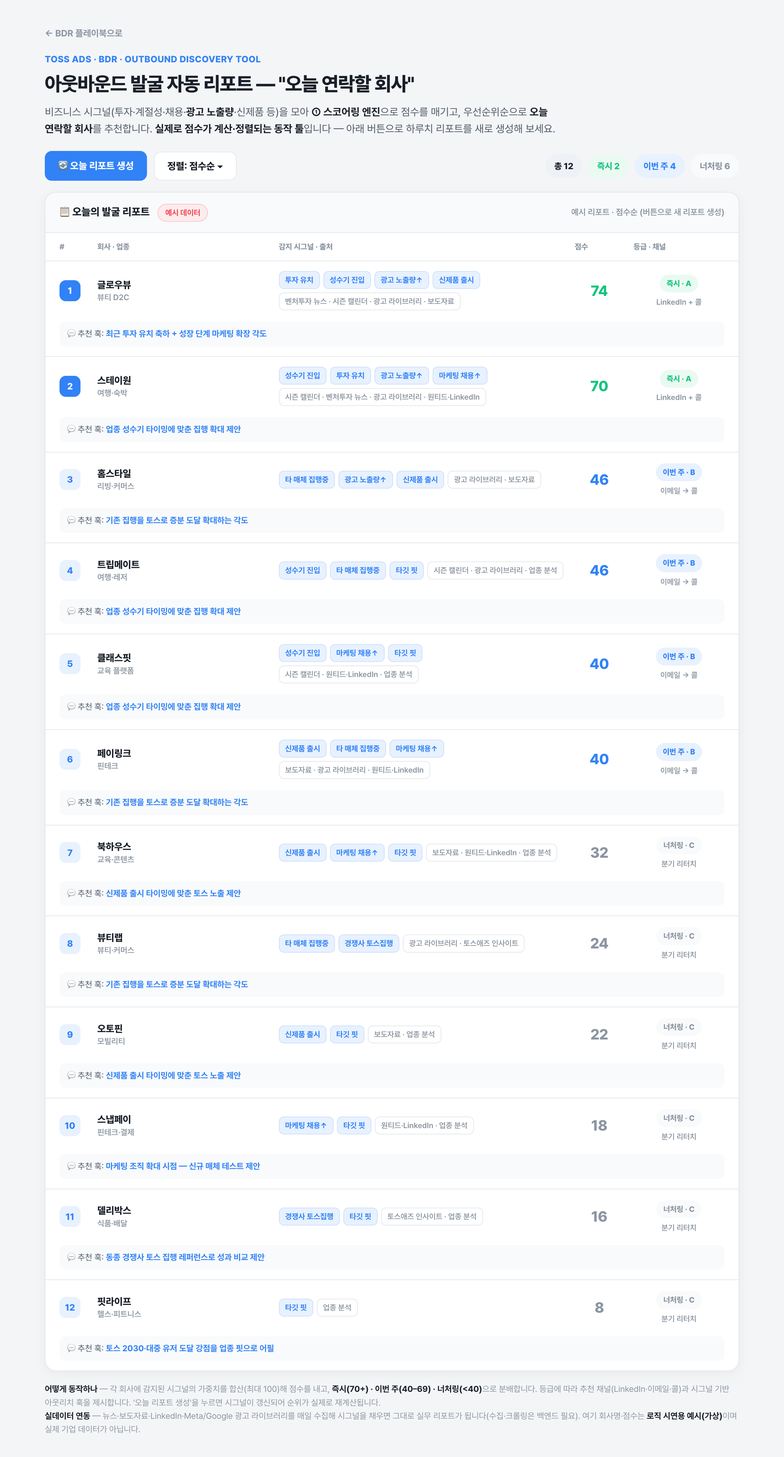
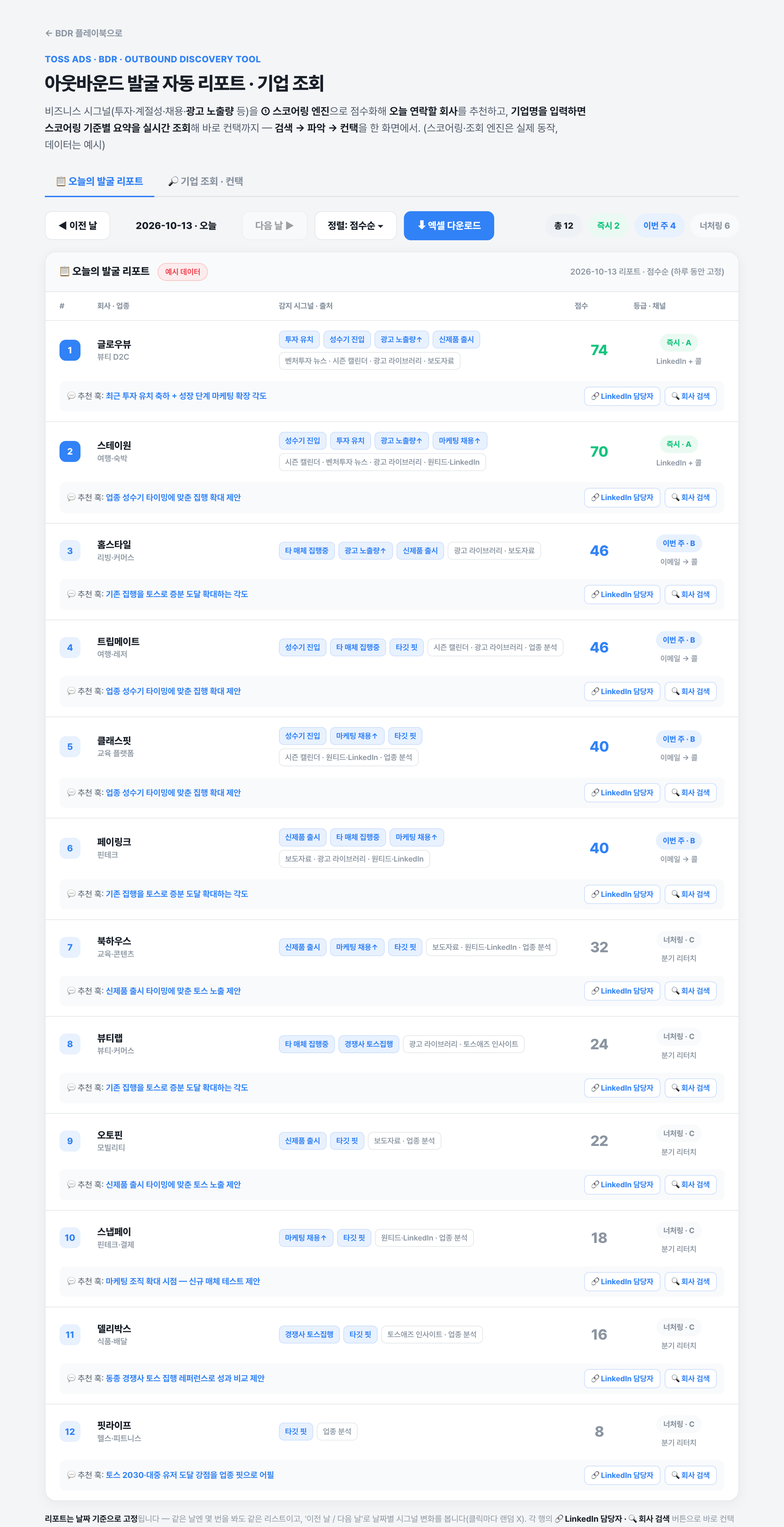
feat(tossbdr): 발굴 툴 날짜-결정론화 + 행별 컨택 버튼 + 엑셀 다운로드 + 기업 조회 탭
- 리포트를 날짜 기준 결정론으로 (같은 날 동일, 클릭마다 랜덤 X) + 이전/다음 날 이동
- 행마다 LinkedIn 담당자·웹 검색 컨택 버튼, CSV(엑셀) 다운로드(컨택 링크 포함)
- '기업 조회·컨택' 탭 신설: 기업명 입력 → 스코어링 8기준별 감지·가중치·출처 요약 → LinkedIn·웹·콜드메일 바로 컨택
- ④ 섹션에 두 탭 실물 캡처 2종 + 버튼 삽입

diff --git a/tossbdr/discovery.html b/tossbdr/discovery.html
@@ -3,8 +3,8 @@
 <head>
 <meta charset="UTF-8" />
 <meta name="viewport" content="width=device-width, initial-scale=1.0" />
-<title>아웃바운드 발굴 자동 리포트 — 오늘 연락할 회사 · 윤지욱</title>
-<meta name="description" content="비즈니스 시그널(투자·계절성·채용·광고 노출량)을 스코어링해 '오늘 연락할 회사'를 우선순위로 추천하는 실제 동작 툴. 토스 Ads BDR 지원 · 윤지욱." />
+<title>아웃바운드 발굴 자동 리포트 · 기업 조회 — 윤지욱</title>
+<meta name="description" content="비즈니스 시그널(투자·계절성·채용·광고 노출량)을 스코어링해 '오늘 연락할 회사'를 추천하고, 기업명으로 실시간 조회·컨택까지 하는 실제 동작 툴. 토스 Ads BDR 지원 · 윤지욱." />
 <style>
   @import url('https://cdn.jsdelivr.net/gh/orioncactus/pretendard@latest/dist/web/static/pretendard.css');
   :root{--blue:#3182F6;--blue-weak:#E8F1FE;--ink:#191F28;--body:#4E5968;--muted:#8B95A1;--line:#E5E8EB;--bg-soft:#F9FAFB;--green:#15C47E;--red:#F04452;}
@@ -14,14 +14,20 @@
   .back{display:inline-block;font-size:13px;font-weight:700;color:var(--muted);text-decoration:none;margin-bottom:16px;}
   .back:hover{color:var(--blue);}
   .eyebrow{font-size:13px;font-weight:800;color:var(--blue);letter-spacing:.02em;margin-bottom:8px;}
-  h1{font-size:28px;font-weight:800;letter-spacing:-.03em;line-height:1.25;margin-bottom:10px;}
-  .lead{font-size:15px;color:var(--body);max-width:760px;margin-bottom:20px;}
+  h1{font-size:27px;font-weight:800;letter-spacing:-.03em;line-height:1.25;margin-bottom:10px;}
+  .lead{font-size:15px;color:var(--body);max-width:780px;margin-bottom:20px;}
   .lead b{color:var(--ink);}
-  .bar{display:flex;align-items:center;gap:10px;flex-wrap:wrap;margin-bottom:16px;}
+  /* 탭 */
+  .tabs{display:flex;gap:4px;border-bottom:2px solid var(--line);margin-bottom:20px;}
+  .tab{font-family:inherit;font-size:14.5px;font-weight:800;color:var(--muted);background:none;border:0;border-bottom:2px solid transparent;margin-bottom:-2px;padding:11px 16px;cursor:pointer;}
+  .tab.active{color:var(--blue);border-bottom-color:var(--blue);}
   .btn{font-family:inherit;font-size:14px;font-weight:800;border-radius:10px;padding:11px 18px;cursor:pointer;border:1px solid var(--blue);background:var(--blue);color:#fff;transition:.15s;}
   .btn:hover{background:#1b64da;border-color:#1b64da;}
   .btn.ghost{background:#fff;color:var(--ink);border-color:var(--line);}
   .btn.ghost:hover{border-color:var(--blue);color:var(--blue);}
+  .btn:disabled{opacity:.4;cursor:not-allowed;}
+  .bar{display:flex;align-items:center;gap:10px;flex-wrap:wrap;margin-bottom:16px;}
+  .dlabel{font-weight:800;font-size:14px;color:var(--ink);min-width:168px;text-align:center;}
   .stat{display:flex;gap:8px;flex-wrap:wrap;margin-left:auto;}
   .stat span{font-size:12.5px;font-weight:800;border-radius:999px;padding:7px 13px;}
   .stat .s-a{color:var(--green);background:#eafaf2;} .stat .s-b{color:var(--blue);background:var(--blue-weak);} .stat .s-c{color:var(--muted);background:var(--bg-soft);} .stat .s-t{color:var(--ink);background:#eef1f5;}
@@ -30,7 +36,7 @@
   .rhd .rt{font-size:15px;font-weight:800;color:var(--ink);}
   .rhd .rd{font-size:12px;color:var(--muted);font-weight:600;}
   .rhead,.rrow{display:grid;grid-template-columns:40px 1.2fr 2fr 70px 130px;gap:14px;align-items:center;padding:14px 20px;border-bottom:1px solid var(--line);}
-  .rhead{padding:11px 20px;background:#fff;font-size:11px;font-weight:800;color:var(--muted);text-transform:none;}
+  .rhead{padding:11px 20px;background:#fff;font-size:11px;font-weight:800;color:var(--muted);}
   .rrow:last-child{border-bottom:0;}
   .rrow:hover{background:#fbfdff;}
   .rk{width:30px;height:30px;border-radius:9px;background:var(--blue-weak);color:var(--blue);font-weight:800;font-size:13px;display:flex;align-items:center;justify-content:center;}
@@ -45,11 +51,45 @@
   .rgr{display:inline-block;font-size:11px;font-weight:800;border-radius:999px;padding:4px 10px;}
   .rgr.a{color:var(--green);background:#eafaf2;} .rgr.b{color:var(--blue);background:var(--blue-weak);} .rgr.c{color:var(--muted);background:var(--bg-soft);}
   .rch{display:block;font-size:11px;color:var(--muted);font-weight:600;margin-top:5px;}
-  .hookrow{grid-column:1 / -1;font-size:12px;color:var(--body);background:var(--bg-soft);border-radius:8px;padding:8px 11px;margin-top:2px;}
+  .hookrow{grid-column:1 / -1;display:flex;align-items:center;flex-wrap:wrap;gap:6px 10px;font-size:12px;color:var(--body);background:var(--bg-soft);border-radius:8px;padding:8px 11px;margin-top:2px;}
   .hookrow b{color:var(--blue);}
+  .cbtns{display:inline-flex;gap:6px;flex-wrap:wrap;margin-left:auto;}
+  .cbtn{font-size:11px;font-weight:700;color:var(--blue);background:#fff;border:1px solid #cfe0fd;border-radius:7px;padding:4px 9px;text-decoration:none;white-space:nowrap;}
+  .cbtn:hover{background:var(--blue);color:#fff;border-color:var(--blue);}
+  /* 기업 조회 */
+  .search{display:flex;gap:10px;flex-wrap:wrap;margin-bottom:12px;}
+  .search input{flex:1;min-width:240px;padding:14px 16px;border:1px solid var(--line);border-radius:12px;font-size:15px;font-family:inherit;color:var(--ink);}
+  .search input:focus{outline:none;border-color:var(--blue);}
+  .chips{display:flex;flex-wrap:wrap;gap:7px;margin-bottom:18px;}
+  .chips button{font-family:inherit;border:1px solid var(--line);background:#fff;color:var(--body);font-size:12.5px;font-weight:700;padding:6px 12px;border-radius:999px;cursor:pointer;}
+  .chips button:hover{border-color:var(--blue);color:var(--blue);}
+  .brief{border:1px solid var(--line);border-radius:16px;overflow:hidden;background:#fff;box-shadow:0 4px 18px rgba(0,0,0,.05);}
+  .bh{display:flex;justify-content:space-between;align-items:center;gap:14px;padding:20px 22px;border-bottom:1px solid var(--line);flex-wrap:wrap;background:var(--bg-soft);}
+  .bname{font-size:22px;font-weight:800;color:var(--ink);} .bname small{font-size:13px;font-weight:600;color:var(--muted);margin-left:8px;}
+  .bscore{text-align:right;display:flex;align-items:baseline;gap:10px;}
+  .bscore .n{font-size:38px;font-weight:800;letter-spacing:-.03em;line-height:1;}
+  .bscore .gr{font-size:12px;font-weight:800;border-radius:999px;padding:5px 11px;}
+  .gr.a{color:var(--green);background:#eafaf2;} .gr.b{color:var(--blue);background:var(--blue-weak);} .gr.c{color:var(--muted);background:#eef1f5;}
+  .bbody{padding:20px 22px;}
+  .bsec{font-size:12px;font-weight:800;color:var(--muted);margin:4px 0 9px;}
+  .btable{width:100%;border-collapse:collapse;font-size:13px;margin-bottom:18px;}
+  .btable th,.btable td{border:1px solid var(--line);padding:9px 12px;text-align:left;vertical-align:middle;}
+  .btable th{background:var(--bg-soft);font-weight:700;color:var(--muted);font-size:11.5px;}
+  .btable td.w{width:64px;text-align:center;font-weight:800;color:var(--ink);}
+  .btable td.d{width:70px;text-align:center;font-weight:800;}
+  .btable tr.on td.d{color:var(--blue);} .btable tr.off td.d{color:var(--muted);}
+  .btable tr.on td{background:#f5f9ff;}
+  .brec{background:var(--blue-weak);border:1px solid #cfe0fd;border-radius:12px;padding:15px 17px;font-size:13.5px;color:var(--ink);line-height:1.65;margin-bottom:16px;}
+  .brec b{color:var(--blue);}
+  .bcontact{display:flex;gap:8px;flex-wrap:wrap;}
+  .bcontact a{font-size:13px;font-weight:800;text-decoration:none;border-radius:11px;padding:11px 17px;border:1px solid var(--line);color:var(--ink);background:#fff;}
+  .bcontact a.li{background:var(--blue);color:#fff;border-color:var(--blue);} .bcontact a.li:hover{background:#1b64da;}
+  .bcontact a:hover{border-color:var(--blue);color:var(--blue);}
+  .bcontact a.li:hover{color:#fff;}
+  .empty{border:1px dashed var(--line);border-radius:14px;padding:34px;text-align:center;color:var(--muted);font-size:14px;}
   .note{font-size:12px;color:var(--muted);line-height:1.6;margin-top:16px;}
   .note b{color:var(--ink);}
-  .tag{display:inline-block;font-size:11px;font-weight:700;color:var(--red);background:#fdeceD;border:1px solid #f7c6c6;border-radius:999px;padding:3px 10px;margin-left:8px;vertical-align:middle;}
+  .tag{display:inline-block;font-size:11px;font-weight:700;color:var(--red);background:#fdeced;border:1px solid #f7c6c6;border-radius:999px;padding:3px 10px;margin-left:8px;vertical-align:middle;}
   @media(max-width:760px){
     .rhead{display:none;}
     .rrow{grid-template-columns:34px 1fr;gap:7px 12px;}
@@ -61,28 +101,51 @@
 <div class="wrap">
   <a class="back" href="bdr.html">← BDR 플레이북으로</a>
   <div class="eyebrow">TOSS ADS · BDR · OUTBOUND DISCOVERY TOOL</div>
-  <h1>아웃바운드 발굴 자동 리포트 — "오늘 연락할 회사"</h1>
-  <p class="lead">비즈니스 시그널(투자·계절성·채용·<b>광고 노출량</b>·신제품 등)을 모아 <b>① 스코어링 엔진</b>으로 점수를 매기고, 우선순위순으로 <b>오늘 연락할 회사</b>를 추천합니다. <b>실제로 점수가 계산·정렬되는 동작 툴</b>입니다 — 아래 버튼으로 하루치 리포트를 새로 생성해 보세요.</p>
+  <h1>아웃바운드 발굴 자동 리포트 · 기업 조회</h1>
+  <p class="lead">비즈니스 시그널(투자·계절성·채용·<b>광고 노출량</b> 등)을 <b>① 스코어링 엔진</b>으로 점수화해 <b>오늘 연락할 회사</b>를 추천하고, <b>기업명을 입력하면 스코어링 기준별 요약을 실시간 조회</b>해 바로 컨택까지 — <b>검색 → 파악 → 컨택</b>을 한 화면에서. (스코어링·조회 엔진은 실제 동작, 데이터는 예시)</p>
 
-  <div class="bar">
-    <button class="btn" id="genBtn">🔄 오늘 리포트 생성</button>
-    <button class="btn ghost" id="sortBtn">정렬: 점수순 ▾</button>
-    <div class="stat" id="stat"></div>
+  <div class="tabs">
+    <button class="tab active" data-tab="report">📋 오늘의 발굴 리포트</button>
+    <button class="tab" data-tab="lookup">🔎 기업 조회 · 컨택</button>
   </div>
 
-  <div class="report">
-    <div class="rhd">
-      <div class="rt">📋 오늘의 발굴 리포트 <span class="tag">예시 데이터</span></div>
-      <div class="rd" id="genTime">—</div>
+  <!-- 탭 1: 오늘의 발굴 리포트 -->
+  <div class="panel" id="panel-report">
+    <div class="bar">
+      <button class="btn ghost" id="prevBtn">◀ 이전 날</button>
+      <div class="dlabel" id="dateLabel">—</div>
+      <button class="btn ghost" id="nextBtn">다음 날 ▶</button>
+      <button class="btn ghost" id="sortBtn">정렬: 점수순 ▾</button>
+      <button class="btn" id="dlBtn">⬇ 엑셀 다운로드</button>
+      <div class="stat" id="stat"></div>
     </div>
-    <div class="rhead"><div>#</div><div>회사 · 업종</div><div>감지 시그널 · 출처</div><div>점수</div><div>등급 · 채널</div></div>
-    <div id="rows"></div>
+    <div class="report">
+      <div class="rhd">
+        <div class="rt">📋 오늘의 발굴 리포트 <span class="tag">예시 데이터</span></div>
+        <div class="rd" id="genTime">—</div>
+      </div>
+      <div class="rhead"><div>#</div><div>회사 · 업종</div><div>감지 시그널 · 출처</div><div>점수</div><div>등급 · 채널</div></div>
+      <div id="rows"></div>
+    </div>
+    <p class="note">
+      <b>리포트는 날짜 기준으로 고정</b>됩니다 — 같은 날엔 몇 번을 봐도 같은 리스트이고, '이전 날 / 다음 날'로 날짜별 시그널 변화를 봅니다(클릭마다 랜덤 X). 각 행의 <b>🔗 LinkedIn 담당자 · 🔍 회사 검색</b> 버튼으로 바로 컨택 포인트를 찾고, <b>⬇ 엑셀 다운로드</b>로 컨택 링크까지 포함한 당일 리스트를 내려받습니다.<br>
+      <b>실데이터 연동</b> — 뉴스·보도자료·LinkedIn·Meta/Google 광고 라이브러리를 매일 수집해 시그널을 채우면 그대로 실무 리포트가 됩니다(수집은 백엔드 필요). 회사명·점수는 로직 시연용 <b>예시(가상)</b>이며, 컨택 버튼은 회사명 기반 실시간 검색으로 연결됩니다.
+    </p>
   </div>
 
-  <p class="note">
-    <b>어떻게 동작하나</b> — 각 회사에 감지된 시그널의 가중치를 합산(최대 100)해 점수를 내고, <b>즉시(70+) · 이번 주(40–69) · 너처링(&lt;40)</b>으로 분배합니다. 등급에 따라 추천 채널(LinkedIn·이메일·콜)과 시그널 기반 아웃리치 훅을 제시합니다. '오늘 리포트 생성'을 누르면 시그널이 갱신되어 순위가 실제로 재계산됩니다.<br>
-    <b>실데이터 연동</b> — 뉴스·보도자료·LinkedIn·Meta/Google 광고 라이브러리를 매일 수집해 시그널을 채우면 그대로 실무 리포트가 됩니다(수집·크롤링은 백엔드 필요). 여기 회사명·점수는 <b>로직 시연용 예시(가상)</b>이며 실제 기업 데이터가 아닙니다.
-  </p>
+  <!-- 탭 2: 기업 조회 · 컨택 -->
+  <div class="panel" id="panel-lookup" style="display:none;">
+    <div class="search">
+      <input id="lookupInput" placeholder="연락할 기업명을 입력하세요 (예: 글로우뷰, 또는 아무 회사명)" autocomplete="off" />
+      <button class="btn" id="lookupBtn">조회</button>
+    </div>
+    <div class="chips" id="lookupChips"></div>
+    <div id="briefResult"></div>
+    <p class="note">
+      <b>어떻게 쓰나</b> — 연락하려는 기업명을 입력하면 <b>스코어링 8개 기준별로 감지 여부·가중치·출처를 요약</b>해 점수·등급·추천 채널·아웃리치 훅을 한눈에 보여줍니다. 내용을 익힌 뒤 바로 <b>LinkedIn 담당자 검색 · 회사 검색 · 콜드메일 초안</b>으로 컨택하세요.<br>
+      등록된 예시 기업은 리포트와 동일한 프로필을, 그 외 기업명은 <b>이름 기반 결정론 프로필</b>(실데이터 연동 시 실제 시그널로 대체)을 보여줍니다.
+    </p>
+  </div>
 </div>
 
 <script>
@@ -103,7 +166,6 @@
     {n:'홈스타일', i:'리빙·커머스'}, {n:'오토핀', i:'모빌리티'},     {n:'스테이원', i:'여행·숙박'},
     {n:'북하우스', i:'교육·콘텐츠'}, {n:'뷰티랩', i:'뷰티·커머스'},   {n:'스냅페이', i:'핀테크·결제'}
   ];
-  // 초기 로드용 고정 데이터 (현실적 분포 — 즉시 2 / 이번 주 4 / 너처링 6)
   var INITIAL = [
     {n:'글로우뷰', i:'뷰티 D2C',      s:['invest','season','adsurge','launch']},
     {n:'스테이원', i:'여행·숙박',     s:['season','invest','adsurge','hiring']},
@@ -118,46 +180,50 @@
     {n:'델리박스', i:'식품·배달',     s:['comp','fit']},
     {n:'핏라이프', i:'헬스·피트니스', s:['fit']}
   ];
-  var curData = [], sortMode = 'score';
+
+  var offset = 0, sortMode = 'score', curData = [], lastRows = [];
 
   function score(sigs){ return Math.min(100, sigs.reduce(function(a,k){ return a + SIG[k].w; }, 0)); }
-  function loadInitial(){
-    curData = INITIAL.map(function(it, i){
-      return {co:{n:it.n,i:it.i}, sigs:it.s, score:score(it.s), tie:(INITIAL.length-i)/100};
-    });
-    render();
-    document.getElementById('genTime').textContent = '예시 리포트 · 점수순 (버튼으로 새 리포트 생성)';
-  }
-
-  function pick(arr, k){ var a=arr.slice(), out=[]; for(var i=0;i<k && a.length;i++){ out.push(a.splice(Math.floor(Math.random()*a.length),1)[0]); } return out; }
   function grade(s){ if(s>=70) return {g:'즉시 · A', c:'a', col:'var(--green)', ch:'LinkedIn + 콜'};
                      if(s>=40) return {g:'이번 주 · B', c:'b', col:'var(--blue)', ch:'이메일 → 콜'};
                      return {g:'너처링 · C', c:'c', col:'var(--muted)', ch:'분기 리터치'}; }
+  function topSig(sigs){ return sigs.slice().sort(function(x,y){ return SIG[y].w-SIG[x].w; })[0]; }
 
-  function generate(){
-    curData = BASE.map(function(co){
-      var n = 2 + Math.floor(Math.random()*4);         // 2~5개 시그널 (현실적 분포)
-      var sigs = pick(KEYS, n);
-      var score = Math.min(100, sigs.reduce(function(a,k){ return a + SIG[k].w; }, 0));
-      // 동점 해소용 보정 (최신성/도달가능성)
-      var tie = Math.random();
-      return {co:co, sigs:sigs, score:score, tie:tie};
-    });
-    render();
-    var d = new Date();
-    var hh = ('0'+d.getHours()).slice(-2), mm = ('0'+d.getMinutes()).slice(-2);
-    document.getElementById('genTime').textContent = '생성 ' + (d.getMonth()+1) + '/' + d.getDate() + ' ' + hh + ':' + mm + ' · 점수순';
+  // 날짜/이름 기준 결정론적 시드 — 같은 입력은 항상 같은 결과
+  function seedFromStr(s){ var h=2166136261; for(var i=0;i<s.length;i++){ h^=s.charCodeAt(i); h=Math.imul(h,16777619);} return h>>>0; }
+  function mulberry32(a){ return function(){ a|=0; a=a+0x6D2B79F5|0; var t=Math.imul(a^a>>>15,1|a); t=t+Math.imul(t^t>>>7,61|t)^t; return ((t^t>>>14)>>>0)/4294967296; }; }
+  function pickRng(rng, n){ var pool=KEYS.slice(), out=[]; for(var i=0;i<n && pool.length;i++){ out.push(pool.splice(Math.floor(rng()*pool.length),1)[0]); } return out; }
+  function dateStr(off){ var d=new Date(); d.setDate(d.getDate()+off); return d.getFullYear()+'-'+('0'+(d.getMonth()+1)).slice(-2)+'-'+('0'+d.getDate()).slice(-2); }
+  function dateLabel(off){ return dateStr(off) + (off===0?' · 오늘':off===-1?' · 어제':''); }
+
+  function liUrl(n){ return 'https://www.linkedin.com/search/results/people/?keywords=' + encodeURIComponent(n + ' 마케팅'); }
+  function webUrl(n,i){ return 'https://www.google.com/search?q=' + encodeURIComponent(n + ' ' + (i||'') + ' 마케팅 담당자'); }
+  function mailUrl(n, hook){
+    var body = '안녕하세요, ' + n + ' 마케팅 담당자님.\n\n토스 Ads BDR 윤지욱입니다. ' + hook + '.\n같은 업종 광고주들이 토스에서 성과를 내고 있어, 15분 통화로 예상 성과를 공유드리고 싶습니다.\n편하신 시간 알려주시면 맞춰 연락드리겠습니다. 감사합니다.';
+    return 'mailto:?subject=' + encodeURIComponent('[토스 Ads] ' + n + ' 마케팅 제안 — 15분 통화 요청') + '&body=' + encodeURIComponent(body);
   }
 
+  // ───── 탭 1: 발굴 리포트 ─────
+  function buildReport(off){
+    if(off===0){
+      return INITIAL.map(function(it,i){ return {co:{n:it.n,i:it.i}, sigs:it.s, score:score(it.s), tie:(INITIAL.length-i)/100}; });
+    }
+    var rng = mulberry32(seedFromStr('toss-bdr-'+dateStr(off)));
+    return BASE.map(function(co){
+      var n = 2 + Math.floor(rng()*4);
+      var sigs = pickRng(rng, n);
+      return {co:co, sigs:sigs, score:score(sigs), tie:rng()};
+    });
+  }
   function render(){
     var rows = curData.slice();
     if(sortMode==='score') rows.sort(function(a,b){ return (b.score-a.score) || (b.tie-a.tie); });
     else rows.sort(function(a,b){ return a.co.n.localeCompare(b.co.n,'ko'); });
-
+    lastRows = rows;
     var a=0,b=0,c=0;
     var html = rows.map(function(r, idx){
       var g = grade(r.score); if(g.c==='a')a++; else if(g.c==='b')b++; else c++;
-      var top = r.sigs.slice().sort(function(x,y){ return SIG[y].w-SIG[x].w; })[0];
+      var top = topSig(r.sigs);
       var chips = r.sigs.map(function(k){ return '<span>'+SIG[k].l+'</span>'; }).join('');
       var srcs = r.sigs.map(function(k){ return SIG[k].src; }).filter(function(v,i,arr){ return arr.indexOf(v)===i; }).join(' · ');
       return '<div class="rrow">'+
@@ -166,21 +232,117 @@
         '<div class="rsig">'+chips+'<span class="src">'+srcs+'</span></div>'+
         '<div class="rsc" style="color:'+g.col+'">'+r.score+'</div>'+
         '<div class="rend"><span class="rgr '+g.c+'">'+g.g+'</span><span class="rch">'+g.ch+'</span></div>'+
-        '<div class="hookrow">💬 추천 훅: <b>'+SIG[top].hook+'</b></div>'+
+        '<div class="hookrow"><span>💬 추천 훅: <b>'+SIG[top].hook+'</b></span>'+
+          '<span class="cbtns">'+
+            '<a class="cbtn" href="'+liUrl(r.co.n)+'" target="_blank" rel="noopener">🔗 LinkedIn 담당자</a>'+
+            '<a class="cbtn" href="'+webUrl(r.co.n,r.co.i)+'" target="_blank" rel="noopener">🔍 회사 검색</a>'+
+          '</span>'+
+        '</div>'+
       '</div>';
     }).join('');
     document.getElementById('rows').innerHTML = html;
     document.getElementById('stat').innerHTML =
       '<span class="s-t">총 '+rows.length+'</span><span class="s-a">즉시 '+a+'</span><span class="s-b">이번 주 '+b+'</span><span class="s-c">너처링 '+c+'</span>';
+    document.getElementById('genTime').textContent = dateStr(offset) + ' 리포트 · 점수순 (하루 동안 고정)';
+  }
+  function show(){
+    curData = buildReport(offset);
+    document.getElementById('dateLabel').textContent = dateLabel(offset);
+    document.getElementById('nextBtn').disabled = (offset >= 0);
+    render();
+  }
+  function csvCell(v){ v = String(v); return /[",\n]/.test(v) ? '"'+v.replace(/"/g,'""')+'"' : v; }
+  function download(){
+    var head = ['순위','회사','업종','감지 시그널','점수','등급','추천 채널','추천 훅','출처','LinkedIn 검색','웹 검색'];
+    var lines = [head.map(csvCell).join(',')];
+    lastRows.forEach(function(r, idx){
+      var g = grade(r.score), top = topSig(r.sigs);
+      var sigNames = r.sigs.map(function(k){ return SIG[k].l; }).join(' / ');
+      var srcs = r.sigs.map(function(k){ return SIG[k].src; }).filter(function(v,i,arr){ return arr.indexOf(v)===i; }).join(' · ');
+      lines.push([idx+1, r.co.n, r.co.i, sigNames, r.score, g.g.replace(' · ',' '), g.ch, SIG[top].hook, srcs, liUrl(r.co.n), webUrl(r.co.n,r.co.i)].map(csvCell).join(','));
+    });
+    var blob = new Blob([''+lines.join('\r\n')], {type:'text/csv;charset=utf-8;'});
+    var a = document.createElement('a');
+    a.href = URL.createObjectURL(blob);
+    a.download = '발굴리포트_' + dateStr(offset) + '.csv';
+    document.body.appendChild(a); a.click(); a.remove();
+    setTimeout(function(){ URL.revokeObjectURL(a.href); }, 1000);
   }
 
-  document.getElementById('genBtn').addEventListener('click', generate);
+  // ───── 탭 2: 기업 조회 ─────
+  function profileFor(name){
+    name = (name||'').trim();
+    var known = INITIAL.filter(function(x){ return x.n===name; })[0];
+    if(known) return {name:name, ind:known.i, sigs:known.s};
+    var b = BASE.filter(function(x){ return x.n===name; })[0];
+    var rng = mulberry32(seedFromStr('lookup-'+name));
+    var n = 2 + Math.floor(rng()*4);
+    return {name:name, ind:(b?b.i:'미등록 업종'), sigs:pickRng(rng, n)};
+  }
+  function renderBrief(name){
+    name = (name||'').trim();
+    var box = document.getElementById('briefResult');
+    if(!name){ box.innerHTML = '<div class="empty">연락할 기업명을 입력하면 스코어링 기준별 요약과 컨택 버튼이 나옵니다.</div>'; return; }
+    var p = profileFor(name), s = score(p.sigs), g = grade(s), top = topSig(p.sigs);
+    var rowsHtml = KEYS.map(function(k){
+      var on = p.sigs.indexOf(k) >= 0;
+      return '<tr class="'+(on?'on':'off')+'"><td>'+SIG[k].l+'</td><td class="w">'+SIG[k].w+'</td><td class="d">'+(on?'✓ 감지':'—')+'</td><td>'+SIG[k].src+'</td></tr>';
+    }).join('');
+    box.innerHTML =
+      '<div class="brief">'+
+        '<div class="bh"><div class="bname">'+name+'<small>'+p.ind+'</small></div>'+
+          '<div class="bscore"><span class="n" style="color:'+g.col+'">'+s+'</span><span class="gr '+g.c+'">'+g.g+'</span></div></div>'+
+        '<div class="bbody">'+
+          '<div class="bsec">스코어링 기준별 요약 (감지 시그널 × 가중치)</div>'+
+          '<table class="btable"><tr><th>기준 (시그널)</th><th class="w">가중치</th><th class="d">감지</th><th>출처</th></tr>'+rowsHtml+'</table>'+
+          '<div class="brec">📌 추천 접근 — 채널 <b>'+g.ch+'</b> · 아웃리치 훅 <b>'+SIG[top].hook+'</b></div>'+
+          '<div class="bsec">바로 컨택</div>'+
+          '<div class="bcontact">'+
+            '<a class="li" href="'+liUrl(name)+'" target="_blank" rel="noopener">🔗 LinkedIn 담당자 검색</a>'+
+            '<a class="web" href="'+webUrl(name,p.ind)+'" target="_blank" rel="noopener">🔍 회사 검색</a>'+
+            '<a class="mail" href="'+mailUrl(name, SIG[top].hook)+'">✉ 콜드메일 초안</a>'+
+          '</div>'+
+        '</div>'+
+      '</div>';
+  }
+
+  // ───── 공통: 탭 전환 ─────
+  var tabs = document.querySelectorAll('.tab');
+  tabs.forEach(function(t){
+    t.addEventListener('click', function(){
+      tabs.forEach(function(x){ x.classList.remove('active'); });
+      t.classList.add('active');
+      var tab = t.getAttribute('data-tab');
+      document.getElementById('panel-report').style.display = (tab==='report')?'block':'none';
+      document.getElementById('panel-lookup').style.display = (tab==='lookup')?'block':'none';
+    });
+  });
+
+  document.getElementById('prevBtn').addEventListener('click', function(){ offset--; show(); });
+  document.getElementById('nextBtn').addEventListener('click', function(){ if(offset<0){ offset++; show(); } });
   document.getElementById('sortBtn').addEventListener('click', function(){
     sortMode = (sortMode==='score') ? 'name' : 'score';
     this.textContent = '정렬: ' + (sortMode==='score' ? '점수순' : '회사명순') + ' ▾';
     render();
   });
-  loadInitial();
+  document.getElementById('dlBtn').addEventListener('click', download);
+
+  var inp = document.getElementById('lookupInput');
+  document.getElementById('lookupBtn').addEventListener('click', function(){ renderBrief(inp.value); });
+  inp.addEventListener('keydown', function(e){ if(e.key==='Enter') renderBrief(inp.value); });
+  (function(){
+    var box = document.getElementById('lookupChips');
+    box.innerHTML = '<span style="font-size:12px;color:var(--muted);font-weight:700;align-self:center;margin-right:2px;">예시:</span>';
+    ['글로우뷰','스테이원','클래스핏','트립메이트','페이링크'].forEach(function(n){
+      var b=document.createElement('button'); b.textContent=n;
+      b.addEventListener('click', function(){ inp.value=n; renderBrief(n); });
+      box.appendChild(b);
+    });
+  })();
+
+  show();
+  renderBrief('글로우뷰');
+  if(location.hash === '#lookup'){ document.querySelector('.tab[data-tab="lookup"]').click(); }
 </script>
 </body>
 </html>

diff --git a/tossbdr/bdr.html b/tossbdr/bdr.html
@@ -661,14 +661,20 @@
       <div class="pdest">시그널 감지 → 스코어 → 큐<small>매일 자동 리포트</small></div>
     </div>
 
+    <div class="note-sm" style="margin:0 0 8px;font-weight:700;color:var(--ink);">① 오늘의 발굴 리포트 — 날짜 기준 고정 · 정렬 · 엑셀 다운로드 · 행별 컨택 버튼</div>
     <a href="discovery.html" title="실제 툴 열기" style="display:block;border:1px solid var(--line);border-radius:16px;overflow:hidden;box-shadow:0 6px 22px rgba(0,0,0,.08);">
       <img src="assets/discovery-report.png" alt="아웃바운드 발굴 자동 리포트 — 실제 구동 화면" loading="lazy" style="display:block;width:100%;height:auto;" />
     </a>
-    <div style="display:flex;gap:12px;align-items:center;flex-wrap:wrap;margin-top:14px;">
-      <a class="demobtn" href="discovery.html" style="margin-top:0;">▶ 실제 툴 열어서 사용하기</a>
-      <span class="note-sm" style="margin:0;">위는 <b>직접 만든 실제 툴의 구동 화면</b>입니다 — 버튼을 누르면 <b>시그널로 점수가 계산·정렬</b>되고 '오늘 리포트 생성'으로 순위가 재계산됩니다.</span>
+    <div class="note-sm" style="margin:18px 0 8px;font-weight:700;color:var(--ink);">② 기업 조회 · 컨택 — 기업명 입력 → 스코어링 기준별 요약 → 바로 컨택(LinkedIn·웹·콜드메일)</div>
+    <a href="discovery.html#lookup" title="기업 조회 탭 열기" style="display:block;border:1px solid var(--line);border-radius:16px;overflow:hidden;box-shadow:0 6px 22px rgba(0,0,0,.08);">
+      <img src="assets/discovery-lookup.png" alt="기업 조회 · 컨택 — 실제 구동 화면" loading="lazy" style="display:block;width:100%;height:auto;" />
+    </a>
+    <div style="display:flex;gap:10px;align-items:center;flex-wrap:wrap;margin-top:16px;">
+      <a class="demobtn" href="discovery.html" style="margin-top:0;">▶ 발굴 리포트 열기</a>
+      <a class="demobtn" href="discovery.html#lookup" style="margin-top:0;background:var(--blue);">🔎 기업 조회 열기</a>
+      <span class="note-sm" style="margin:0;">위는 <b>직접 만든 실제 툴의 구동 화면</b>입니다 — <b>검색 → 파악 → 컨택</b>을 한 화면에서. 날짜별로 리포트가 고정되고, 기업명으로 실시간 조회됩니다.</span>
     </div>
-    <p class="note-sm" style="color:var(--red);font-weight:600;margin-top:10px;">※ 회사명·점수는 로직 시연용 <b>예시(가상)</b>이며, 실데이터 연동(뉴스·LinkedIn·Meta/Google 광고 라이브러리 수집)은 백엔드가 필요합니다. 스코어링·우선순위 엔진은 실제로 동작합니다.</p>
+    <p class="note-sm" style="color:var(--red);font-weight:600;margin-top:10px;">※ 회사명·점수는 로직 시연용 <b>예시(가상)</b>이며, 실데이터 연동(뉴스·LinkedIn·Meta/Google 광고 라이브러리 수집)은 백엔드가 필요합니다. 스코어링·조회·컨택 엔진은 실제로 동작합니다.</p>
 
     <h3 style="font-size:16px;font-weight:800;margin:24px 0 8px;">이 리포트가 하는 일</h3>
     <div class="dcards">
